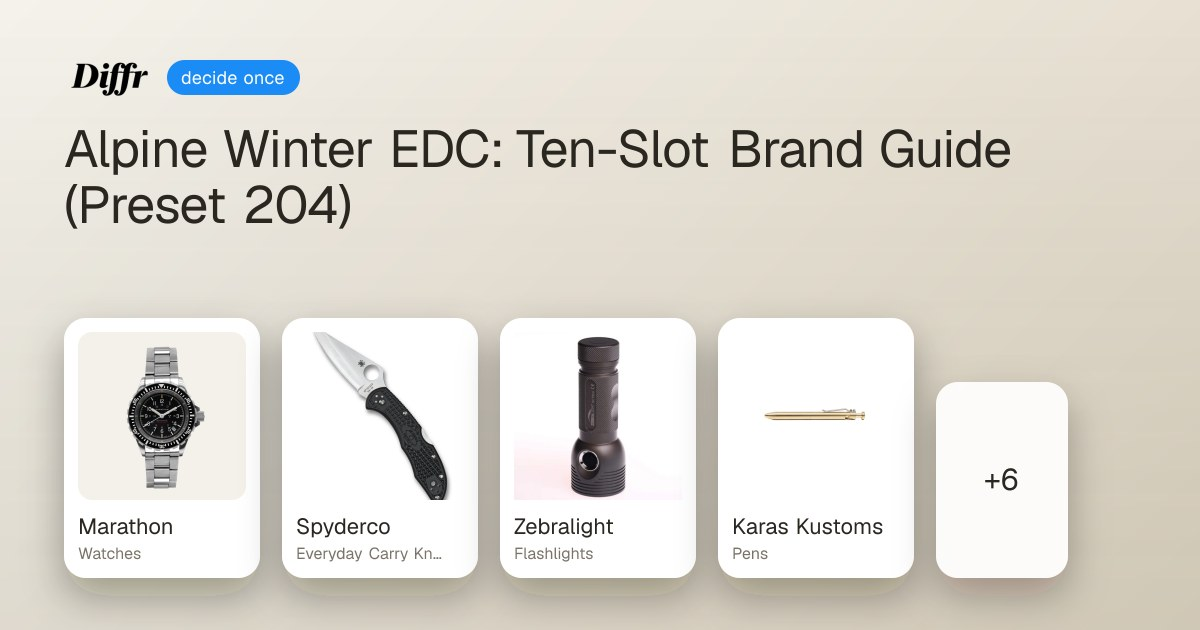
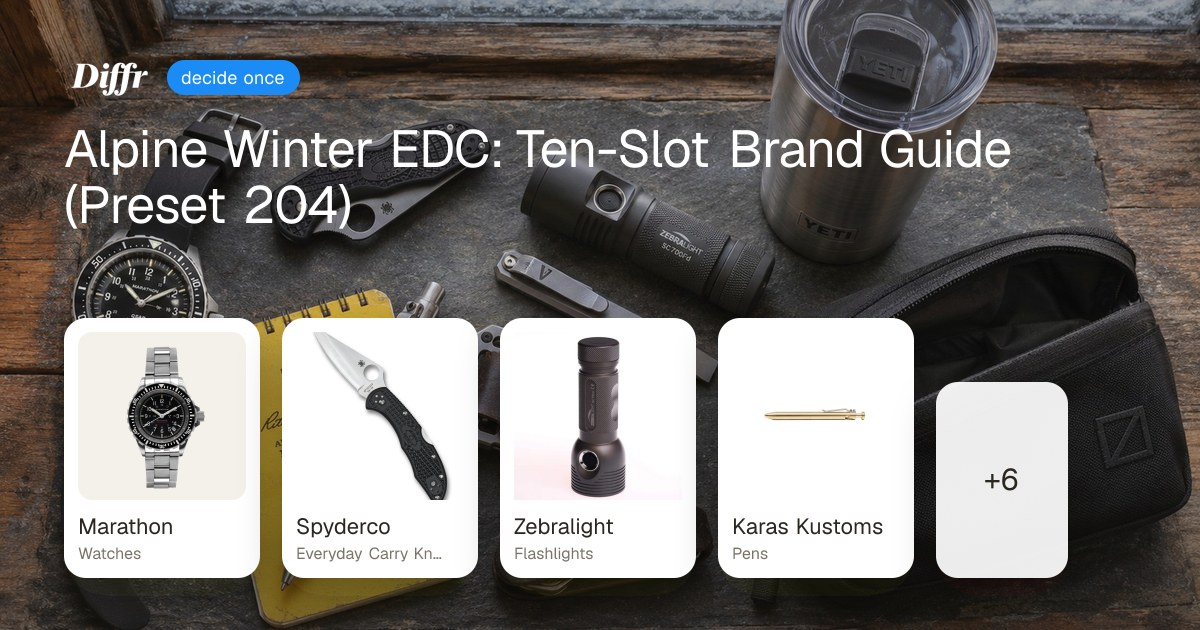
feat(diffr): add OG base covers and rebake share cards for presets 202-204

diff --git a/app/diffr/blog/og-base.ts b/app/diffr/blog/og-base.ts
@@ -115,6 +115,9 @@ export const OG_BASE_SLUGS = new Set<string>([
   'minimalist-titanium-edc-brand-guide',
   'wimb-longchamp-le-pliage-brand-guide',
   'styling-barbour-jacket-brand-guide',
+  'styling-nordic-knitwear-brand-guide',
+  'wimb-parisian-cafe-brand-guide',
+  'alpine-winter-edc-brand-guide',
   '54321-packing-method-brand-guide',
   // Aritzia / athleisure rescue pages (2026-09-15)
   'wilfred-brand-guide',
